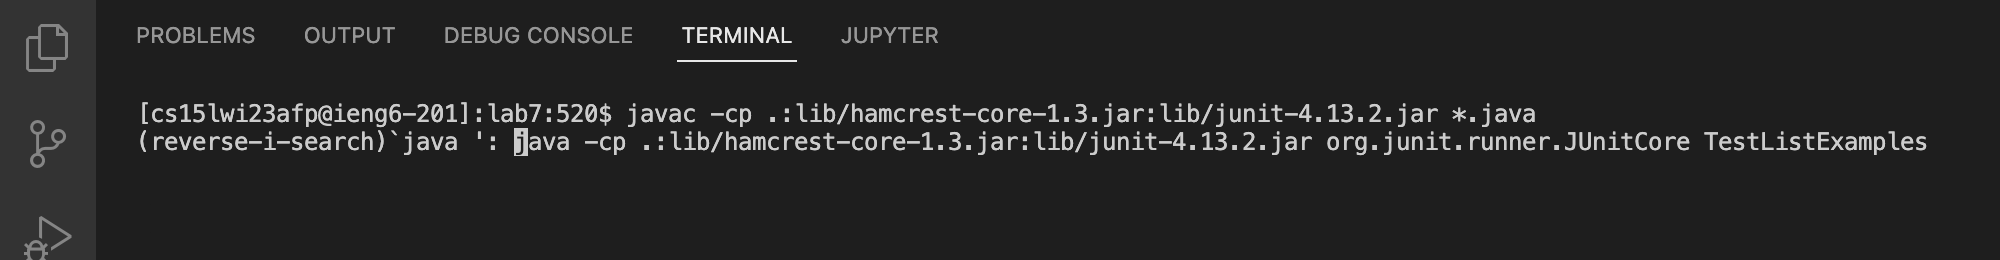
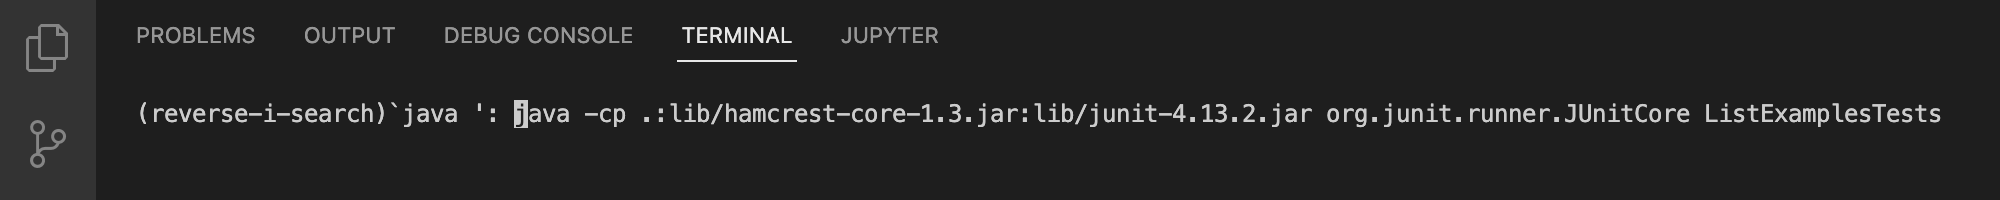
updated

diff --git a/Lab_4_Report.md b/Lab_4_Report.md
@@ -10,10 +10,7 @@
 
 ![Image1](/Lab_4_Photos/Image2.png)
 
-Key Pressed: 
-```
-<Ctrl-R> ssh <enter>
-```
+Key Pressed: `<Ctrl-R> ssh <enter>`
 
 * The ssh cs15lwi23afp@ieng6.ucsd.edu command was in the search history. But since I don't know where exactly in the search history, I pressed "**Ctrl-R**" to enable search command and searched for the "ssh" pattern. When I found the correct "ssh" command, I pressed "**enter**" to run the "ssh" command line. Since I know that I only use ssh for logging in, searching for the command pattern in the search history will be faster. 
 
@@ -26,10 +23,7 @@ Key Pressed:
 
 ![Image1](/Lab_4_Photos/Image4.png)
 
-Key Pressed:
-```
-<Ctrl-R> git <enter>
-```
+Key Pressed: `<Ctrl-R> git <enter>`
 
 * The git clone https://github.com/ucsd-cse15l-w23/skill-demo1-data command was in the search history. But since I don't know where exactly in the search history, I pressed "**Ctrl-R**" to enable search command and searched for the "git" pattern. When I found the correct "git" command, I pressed "**enter**" to run the "git" command line and start cloning the git repo. Since I know that "git clone" lab7 repo was the most recent "git clone" command line I called, by searching "git" pattern should give me the correct git clone command of lab7 repo.
 
@@ -39,10 +33,7 @@ Key Pressed:
 
 ![Image1](/Lab_4_Photos/Image5.png)
 
-Key Pressed
-```
-cd l <tab><enter>
-```
+Key Pressed: `cd l <tab><enter>`
 
 * The cd lab7/ command changes my current directory to lab7. Since I know that lab7 is the only sub-directory in my current directory, I pressed "**tab**" to autofill the name of the sub-directory after finished typing "cd l". Once autofill is completed, I pressed "**enter**" to run the command line and change my directory to lab7.
 
@@ -52,10 +43,7 @@ cd l <tab><enter>
 
 ![Image1](/Lab_4_Photos/Image7.png)
 
-Key Pressed
-```
-<Ctrl-R> javac <enter>
-```
+Key Pressed: `<Ctrl-R> javac <enter>`
 
 * The javac -cp .:lib/hamcrest-core-1.3.jar:lib/junit-4.13.2.jar *.java command was in the search history. But since I don't know where exactly in the search history, I pressed "**Ctrl-R**" to enable search command and searched for the "javac" pattern. When I found the correct "javac" command, I pressed "**enter**" to run the "javac" command line and start compiling all java files in the directory. Since I know that "javac" of files in lab7 was the most recent "javac" type command line I called, by searching "javac" pattern should give me the correct javac command line to compile all java files exist in lab7.
 
@@ -65,14 +53,19 @@ Key Pressed
 
 ![Image1](/Lab_4_Photos/Image9.png)
 
-Key Pressed
-```
-<Ctrl-R> java <space><enter>
-```
+Key Pressed: `<Ctrl-R> java <space><enter>`
 
-* The java -cp .:lib/hamcrest-core-1.3.jar:lib/junit-4.13.2.jar org.junit.runner.JUnitCore TestListExamples command was in the search history. But since I don't know where exactly in the search history, I pressed "**Ctrl-R**" to enable search command and searched for the "java" pattern. But since "javac" also contains the substring "java", typing "java" alone won't be helpful. To have the pattern "java" stands as its own word, press "**space**" immediately after "java". Once I found the correct "java" command, I pressed "**enter**" to run the "java" command line that will run the TestListExamples file. Since I know that I only ran "java" command line on TestListExamples file prior to the competition, by searching through the search history with the pattern "java**space**>" will give me the correct command line.
+* The java -cp .:lib/hamcrest-core-1.3.jar:lib/junit-4.13.2.jar org.junit.runner.JUnitCore ListExamplesTests command was in the search history. But since I don't know where exactly in the search history, I pressed "**Ctrl-R**" to enable search command and searched for the "java" pattern. But since "javac" also contains the substring "java", typing "java" alone won't be helpful. To have the pattern "java" stands as its own word, press "**space**" immediately after "java". Once I found the correct "java" command, I pressed "**enter**" to run the "java" command line that will run the TestListExamples file. Since I know that I only ran "java" command line on TestListExamples file prior to the competition, by searching through the search history with the pattern "java**space**>" will give me the correct command line.
+
+---
 
 ### Step 4 : Edit the code file to fix the failing test
+
+![Image1](/Lab_4_Photos/Image10.png)
+
+Key Pressed: `nano<space> L <tab> j <tab><enter>`
+
+The nano ListExamples.java command opens a text editor. I typed in "nano" to specify which text editor to use. The "**space**" separates the "nano" text editor and the file. I typed "L" since this is the first letter of java ListExamples file that I will be accessing. Additionally, since the ListExamples is the only file name in the directory that started with the letter "L", so I pressed "**tab**" to autocomplete "ListExamples.". However, there are two different file types with the same file name, so I typed "j" to specify the file type and pressed "**tab**" to autofill the rest of the word "java". Once done, I pressed "**enter**" to run the command line and open the nano text editor for the ListExamples.java file.
 
 ### Step 5 : Run the tests, demonstrating that they now succeed
  
